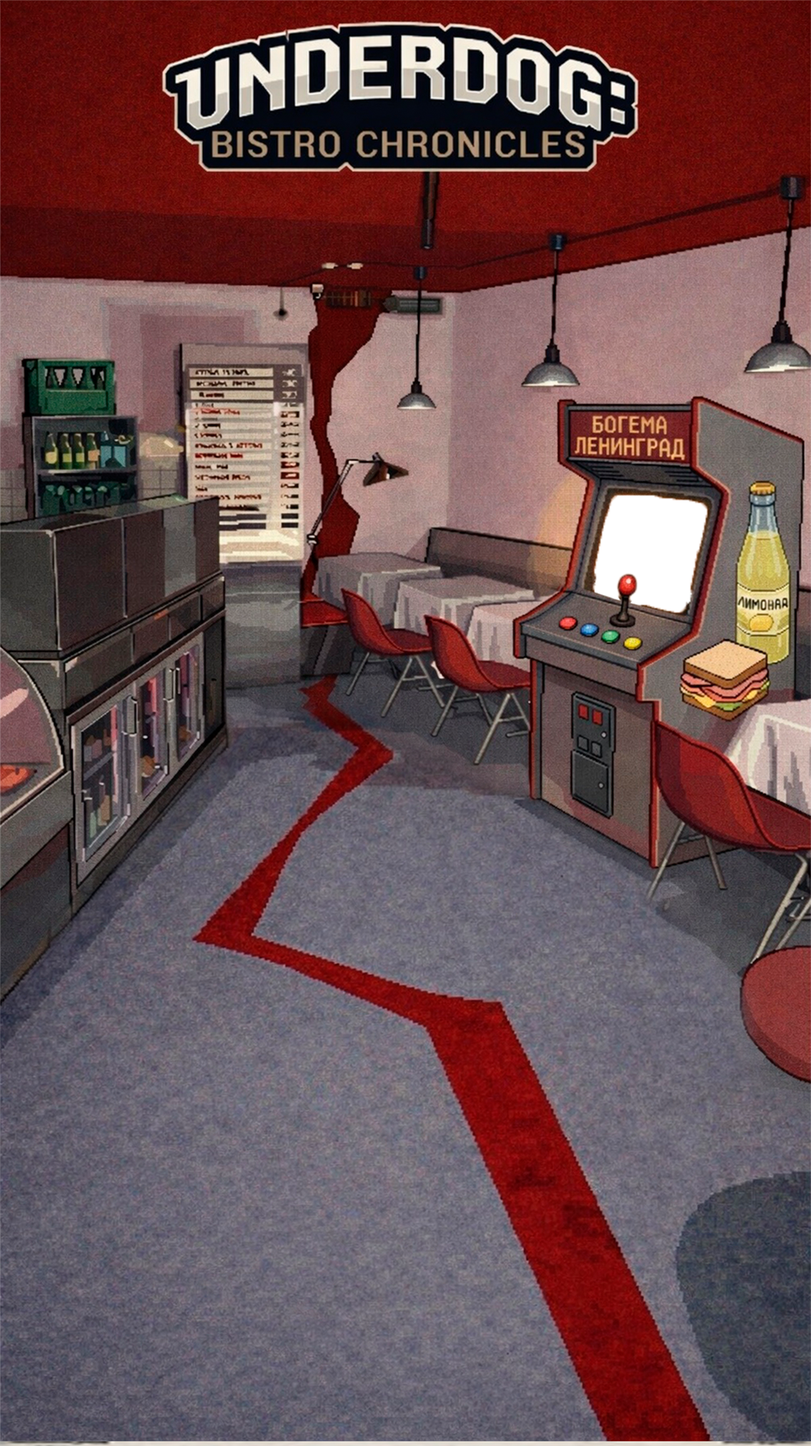
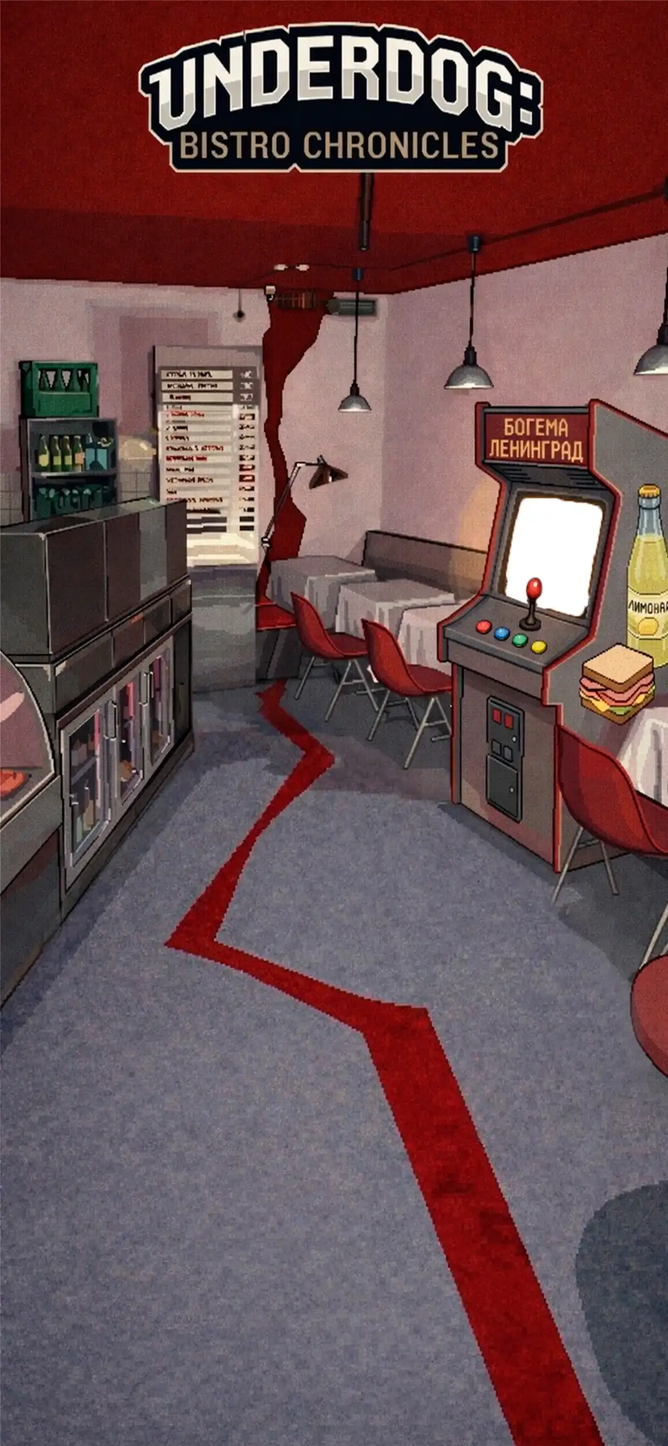
pictures optimization

diff --git a/client/src/components/RunnerUI.tsx b/client/src/components/RunnerUI.tsx
@@ -55,7 +55,7 @@ export default function RunnerUI({
         <div className='runner_ui__score' aria-label={`Ничегошек: ${score}`}>
           <img
             className='runner_ui__score_icon'
-            src='/assets/nichego_coin.png'
+            src='/assets/nichego_coin.webp'
             alt=''
             aria-hidden='true'
           />
@@ -79,7 +79,7 @@ export default function RunnerUI({
               <span>{finalScore}</span>
               <img
                 className='runner_ui__shipment_message_icon'
-                src='/assets/nichego_coin.png'
+                src='/assets/nichego_coin.webp'
                 alt=''
                 aria-hidden='true'
               />
@@ -106,7 +106,7 @@ export default function RunnerUI({
               <span>Итог:</span>
               <img
                 className='runner_ui__result_icon'
-                src='/assets/nichego_coin.png'
+                src='/assets/nichego_coin.webp'
                 alt=''
                 aria-hidden='true'
               />

diff --git a/client/src/runner/RunnerScene.ts b/client/src/runner/RunnerScene.ts
@@ -22,9 +22,9 @@ import {
 import type { RunnerCallbacks, RunnerObstacle, RunnerPattern, RunnerSpawnSpec } from './types';
 
 const RUNNER_HERO_TEXTURE_KEY = 'runner-hero';
-const RUNNER_HERO_ASSET_PATH = '/assets/runner_hero.png';
+const RUNNER_HERO_ASSET_PATH = '/assets/runner_hero.webp';
 const RUNNER_BACKGROUND_TEXTURE_KEY = 'runner-background';
-const RUNNER_BACKGROUND_ASSET_PATH = '/assets/runner_background.png';
+const RUNNER_BACKGROUND_ASSET_PATH = '/assets/runner_background.webp';
 const PLAYER_ORIGINAL_DISPLAY_HEIGHT = 92;
 const PLAYER_DISPLAY_WIDTH = 91;
 const PLAYER_DISPLAY_HEIGHT = 138;

diff --git a/client/src/game/match3Assets.ts b/client/src/game/match3Assets.ts
@@ -4,12 +4,12 @@ import { GEM_ASSET_COUNT } from './config';
 
 const GEM_ASSET_PATHS = Array.from({ length: GEM_ASSET_COUNT }, (_, index) => ({
   key: `gem${index}`,
-  path: `/assets/gem${index}.png`,
+  path: `/assets/gem${index}.webp`,
 }));
 
 const MATCH3_ASSET_PATHS = [
   ...GEM_ASSET_PATHS,
-  { key: 'gem_bomb', path: '/assets/gem_bomb.png' },
+  { key: 'gem_bomb', path: '/assets/gem_bomb.webp' },
 ];
 
 export function registerPreloadedMatch3Textures(scene: Phaser.Scene): void {

diff --git a/client/src/components/RunnerCanvas.tsx b/client/src/components/RunnerCanvas.tsx
@@ -86,7 +86,7 @@ export default function RunnerCanvas({
       <div className='runner_canvas__tap_zone' onPointerDown={handleTap}>
         <div className='runner_canvas__cabinet'>
           <div ref={mountRef} className='runner_canvas__mount' />
-          <img className='runner_canvas__apparat' src='/assets/runner_apparat.png?v=2' alt='' />
+          <img className='runner_canvas__apparat' src='/assets/runner_apparat.webp?v=2' alt='' />
         </div>
       </div>
     </div>

diff --git a/client/src/components/RunnerUI.styles.css b/client/src/components/RunnerUI.styles.css
@@ -245,7 +245,7 @@
 .runner_ui__shipment_sprite_track {
     width: 1200%;
     height: 100%;
-    background-image: url('/assets/spritesheet_runner.jpg');
+    background-image: url('/assets/spritesheet_runner.webp');
     background-repeat: no-repeat;
     background-size: 100% 100%;
     animation: runner_ui__shipment_sprite_frames 6s step-end infinite;

diff --git a/client/src/components/CafeMenu.tsx b/client/src/components/CafeMenu.tsx
@@ -150,7 +150,7 @@ export default function CafeMenu({
       >
         <img
           className='cafe_menu__music_toggle_sprite'
-          src={isMusicEnabled ? '/assets/music_on.png' : '/assets/music_off.png'}
+          src={isMusicEnabled ? '/assets/music_on.webp' : '/assets/music_off.webp'}
           alt=''
         />
       </button>

diff --git a/client/src/components/GameUI.tsx b/client/src/components/GameUI.tsx
@@ -34,7 +34,7 @@ export default function GameUI({
         <div className='game_ui__score' aria-label={`Кепок: ${score}`}>
           <img
             className='game_ui__score_icon'
-            src='/assets/kepka_coin.png'
+            src='/assets/kepka_coin.webp'
             alt=''
             aria-hidden='true'
           />

diff --git a/client/src/components/RunnerMenuPreview.tsx b/client/src/components/RunnerMenuPreview.tsx
@@ -51,7 +51,7 @@ export default function RunnerMenuPreview({
       <div className='runner_menu_preview__cabinet'>
         <img
           className='runner_menu_preview__image'
-          src='/assets/runner_menu_preview.png'
+          src='/assets/runner_menu_preview.webp'
           alt=''
           aria-hidden='true'
         />

diff --git a/client/src/components/MainMenu.styles.css b/client/src/components/MainMenu.styles.css
@@ -9,7 +9,7 @@
         max(16px, env(safe-area-inset-left));
     box-sizing: border-box;
     overflow: hidden;
-    background-image: url('/assets/start_menu.PNG');
+    background-image: url('/assets/start_menu.webp');
     background-position: center;
     background-repeat: no-repeat;
     background-size: cover;

diff --git a/client/src/components/CafeMenu.styles.css b/client/src/components/CafeMenu.styles.css
@@ -8,7 +8,7 @@
     overflow: hidden;
     background-image:
         linear-gradient(180deg, rgba(17, 12, 10, 0.28), rgba(17, 12, 10, 0.58)),
-        url('/assets/menu_main.jpg');
+        url('/assets/menu_main.webp');
     background-position: center;
     background-repeat: no-repeat;
     background-size: cover;

diff --git a/client/src/components/ResultLeaderboard.tsx b/client/src/components/ResultLeaderboard.tsx
@@ -26,7 +26,7 @@ const TITLE_LABEL_BY_GAME: Record<BackendGame, string> = {
 
 const TITLE_COIN_BY_GAME: Record<BackendGame, string> = {
   match: '/assets/kepka_coin.png',
-  runner: '/assets/nichego_coin.png',
+  runner: '/assets/nichego_coin.webp',
 };
 
 function getDisplayName(username: string): string {
